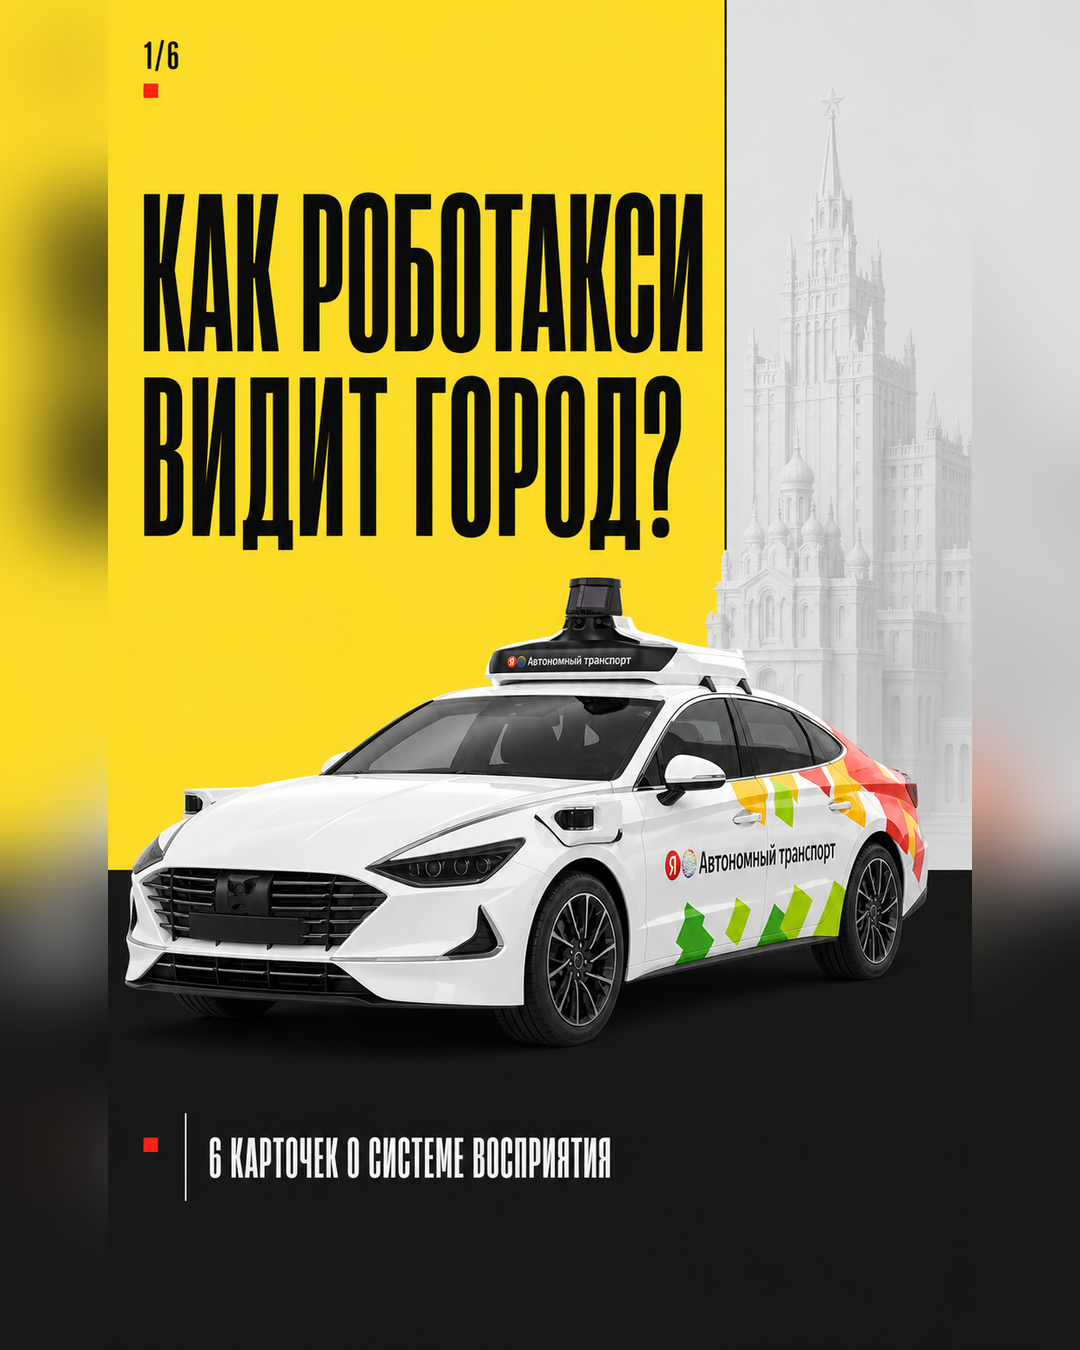
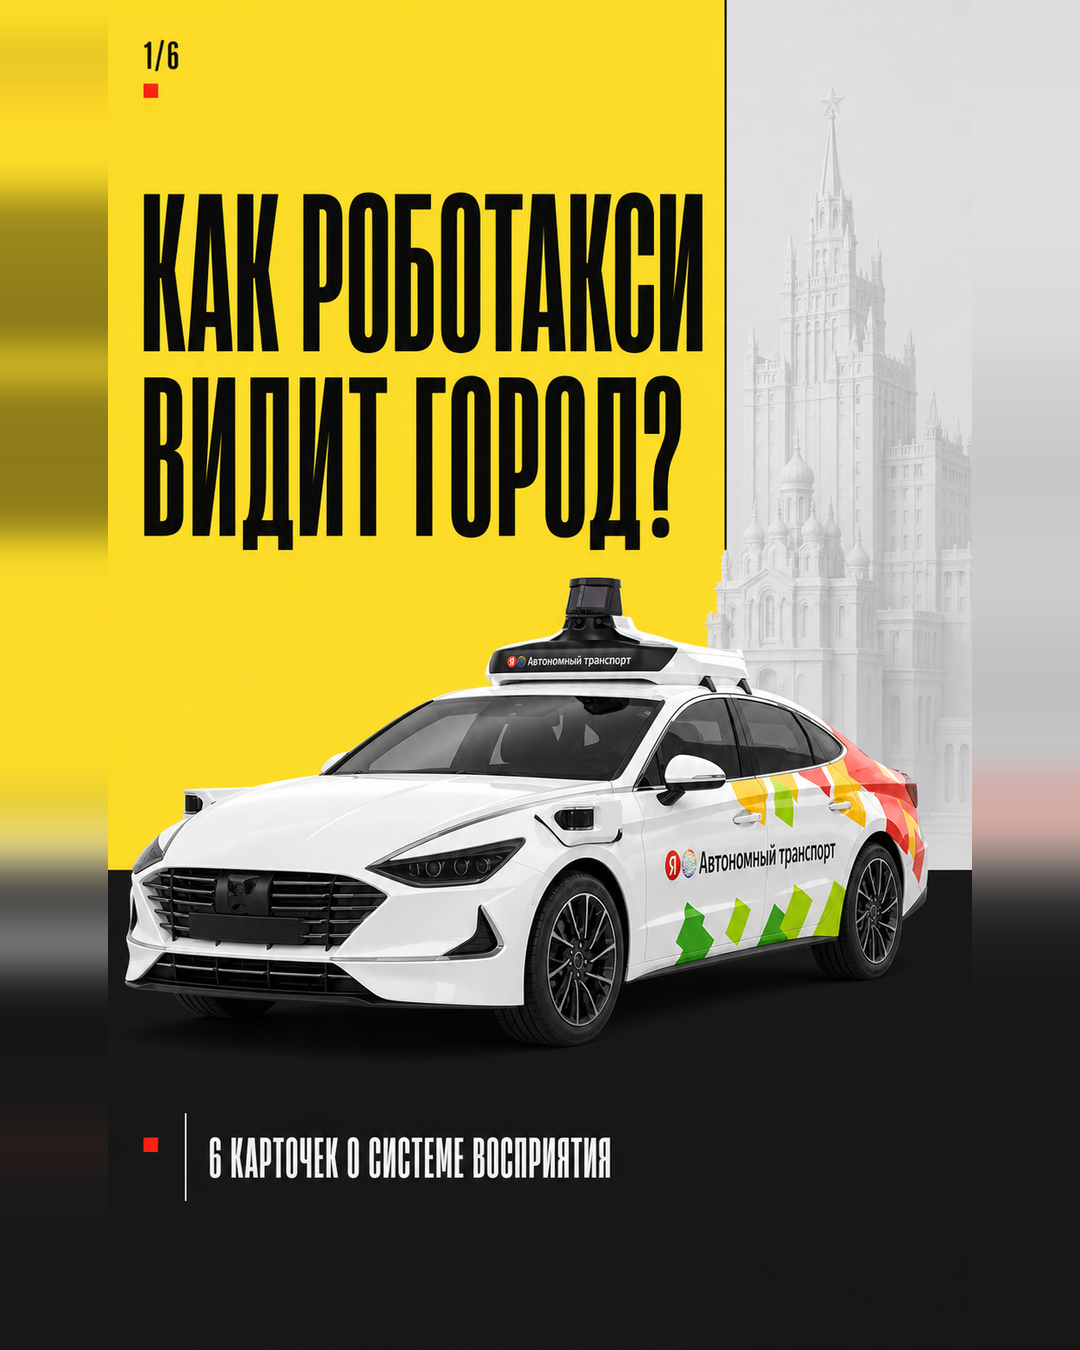
Снята метка расхождения по сенсорам: карточка исправлена, rtb-факты приведены в соответствие

diff --git a/РЕЗУЛЬТАТЫ/06_контент/2026-08-01_как-роботакси-видит-город/собрать-финалы.py b/РЕЗУЛЬТАТЫ/06_контент/2026-08-01_как-роботакси-видит-город/собрать-финалы.py
@@ -30,10 +30,20 @@ for source_name, final_name in FILES:
         canvas = resized.crop((left, 0, left + target_w, target_h))
     else:
         left = (target_w - width) // 2
-        canvas = resized.resize((target_w, target_h), Image.Resampling.BICUBIC).filter(
-            ImageFilter.GaussianBlur(radius=36)
-        )
+        right = target_w - width - left
+        sample = min(96, width)
+        left_profile = resized.crop((0, 0, sample, target_h)).resize(
+            (1, target_h), Image.Resampling.BOX
+        ).filter(ImageFilter.GaussianBlur(radius=18))
+        right_profile = resized.crop((width - sample, 0, width, target_h)).resize(
+            (1, target_h), Image.Resampling.BOX
+        ).filter(ImageFilter.GaussianBlur(radius=18))
+        canvas = Image.new("RGB", (target_w, target_h))
+        if left:
+            canvas.paste(left_profile.resize((left, target_h)), (0, 0))
         canvas.paste(resized, (left, 0))
+        if right:
+            canvas.paste(right_profile.resize((right, target_h)), (left + width, 0))
 
     canvas.save(FINAL / final_name, optimize=True)
 

diff --git a/references/rtb-факты.md b/references/rtb-факты.md
@@ -43,7 +43,9 @@ Reason to believe — доводы, характеристики и цифры, 
 2. **250 м страница относит к сканированию пространства**, а не к лидару отдельно. Ранний документ пишет «ИИ-предиктивное вождение по LiDAR 250м» — это его интерпретация
 3. **1 см — это точность определения местоположения автомобиля.** Ранний документ пишет «точность до 1 см локализации предметов вокруг роботакси». Разные утверждения: страница про то, где машина знает себя, документ про то, где она видит других. В материалы идёт формулировка страницы
 
-**Расхождение внутри контура фактов.** Карточка [[robotaxi-sensornaya-konfiguraciya]] в разделе «Метку с сенсорного набора можно снимать» утверждает, что 250 м, 360° и 1 см «на странице в таком виде не подтверждены». Это верно на момент её написания и неверно сейчас: полный текст страницы содержит все три дословно (см. таблицу выше и снимок первоисточника). Прав снимок. `[ПРОВЕРИТЬ: обновить этот абзац в карточке при следующей ревизии knowledge/]`
+**Расхождение внутри контура фактов снято 01.08.2026.** Карточка [[robotaxi-sensornaya-konfiguraciya]] раньше утверждала, что 250 м, 360° и 1 см «на странице в таком виде не подтверждены», — это было верно на момент её написания и неверно после того, как завели полный снимок страницы. Карточка исправлена по протоколу ревизии, правка помечена в ней самой. Метка снята.
+
+В силе остаётся другое: **приписка** этих чисел, а не сами числа. Три оговорки — выше.
 
 ### Пробег: единственное число уровня 1, которое нельзя брать как есть
 
